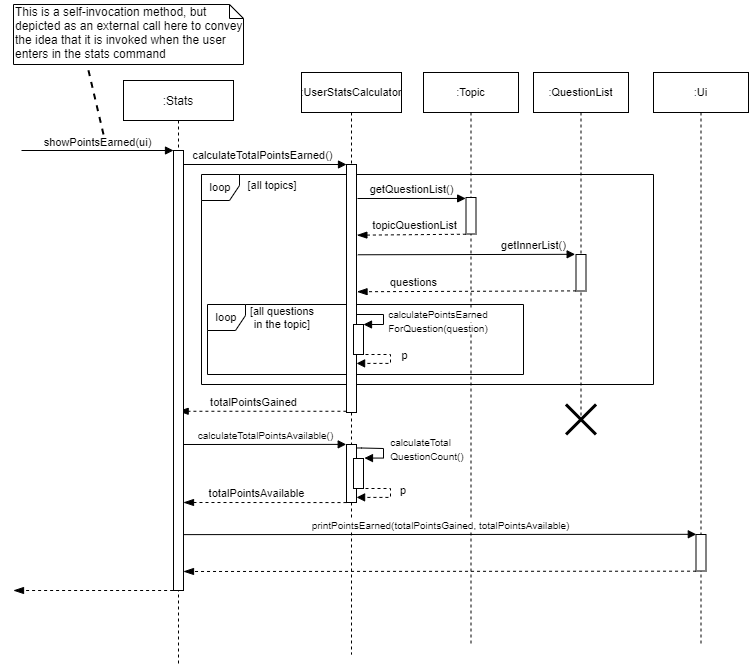
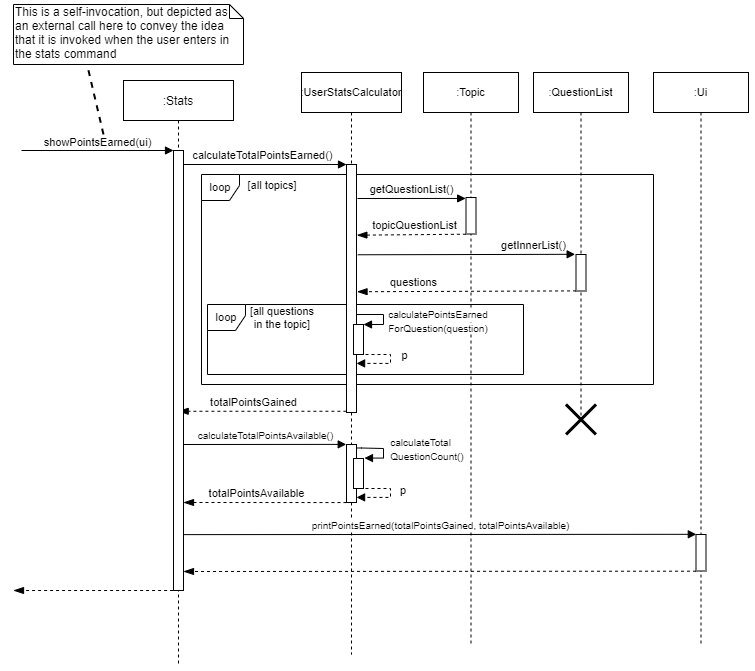
Fix UML note and update developer guide table of contents

Changed region(s): [[0.0305, 0.0, 0.3351, 0.0894]]

diff --git a/docs/DeveloperGuide.md b/docs/DeveloperGuide.md
@@ -17,6 +17,7 @@
       - [2.3.3. Design of QuizQuestionsManager](#233-design-of-quizquestionsmanager)
       - [2.3.4. Implementation of QuizQuestionsManager](#234-implementation-of-quizquestionsmanager)
       - [2.3.5. Design of Stats Feature](#235-design-of-stats-feature)
+      - [2.3.6. Implementation of Stats Feature](#236-implementation-of-stats-feature)
     - [2.4. Storage Component](#24-storage-component)
       - [2.4.1. Design of TopicsStorage](#241-design-of-topicsstorage)
       - [2.4.2. Implementation of TopicsStorage](#242-implementation-of-topicsstorage)
